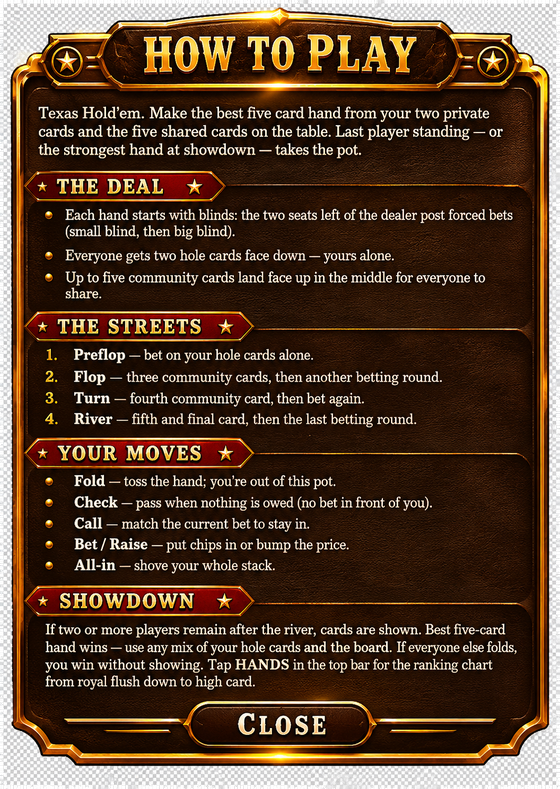
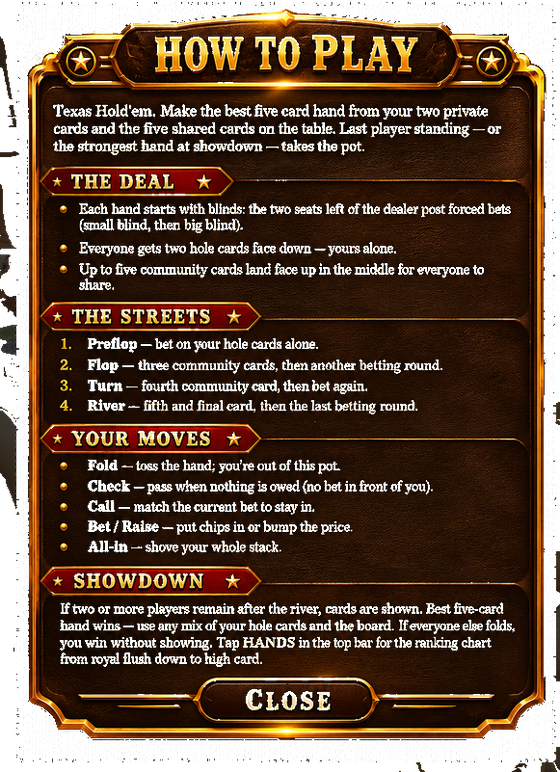
Fix How to Play panel transparency outside gold frame
Re-export how-to-play PNGs from updated art, removing checkerboard and
gray matte outside the ornate border. Bump cache to v79.

diff --git a/Web/CinematicPoker.Web/wwwroot/index.html b/Web/CinematicPoker.Web/wwwroot/index.html
@@ -25,7 +25,7 @@
          vendored in fonts/ so the game needs no network at all — the
          @font-face declarations live at the top of css/app.css. -->
     <link rel="preload" href="fonts/rye-latin.woff2" as="font" type="font/woff2" crossorigin />
-    <link rel="stylesheet" href="css/app.css?v=78" />
+    <link rel="stylesheet" href="css/app.css?v=79" />
     <script>
         // iOS reports the landscape notch inset on both sides. The housing
         // is only on one edge: window.orientation 90 puts it on the left,
